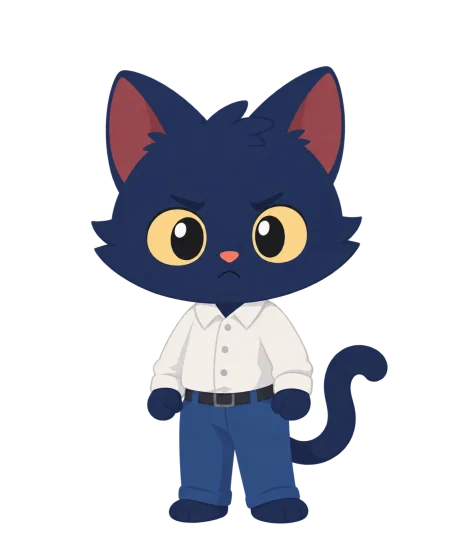
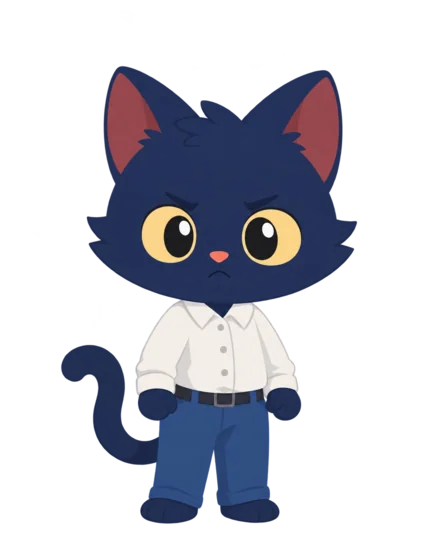
feat : COMMON-73 방향 검수 반영 · 물음표 컷 반대 방향본 · 탐구 컷 9장 · 내로 변호인 · 노트북 · 펠트 재생성본 교체

diff --git a/frontend/src/components/stage.js b/frontend/src/components/stage.js
@@ -43,6 +43,14 @@ export const imageOf = (who, look) => (look.startsWith('role:') ? `${IMAGES}role
     : look.startsWith('cheek:') ? `${IMAGES}cheek/${who}_${look.slice(6)}.webp` // 볼따구(기다림)
     : look.startsWith('deform:') ? `${IMAGES}deform/${who}_${look.slice(7)}.webp` // 데포르메(란마 등, 시트에서 잘라 public에 둔다)
     : `${IMAGES}scene/${who}_${look}.webp`);
+// 좌우를 따로 그린 모습(COMMON-73): 물음표처럼 글자가 들어 있어 CSS로 뒤집으면 글자도 거울 글씨가 된다.
+// 이 모습은 뒤집는 대신 반대 방향으로 따로 그린 그림(`-mirror`, 물음표는 그대로)을 쓴다. 기본 그림은 규칙 방향(FACING)이다
+export const MIRRORED_LOOKS = new Set(['cheek:idle-thinking', 'cheek-slim:idle-thinking']);
+/** 서 있는 자리에서 쓸 그림과 CSS 뒤집기 여부. flip: flipFor 결과 */
+export function facedImage(who, look, flip) {
+  if (flip && MIRRORED_LOOKS.has(look)) return { src: imageOf(who, look).replace(/\.webp$/, '-mirror.webp'), flip: false };
+  return { src: imageOf(who, look), flip };
+}
 // 법정 자리는 역할 의상(look "role:…")이 정한다: 검사 · 판사 = 왼쪽(검사편, 가운데는 카드 · 판이 많이 떠서 판사도 왼쪽이 기본) · 변호인 = 오른쪽 변호인석.
 // 판사를 가운데에 세우려면 대본 spots로 준다.
 const SEAT = { prosecutor: 'left', judge: 'left', defense: 'right' };
@@ -508,9 +516,10 @@ export function renderStage({ script, order, cards = {}, inputCards = [], choice
   // 볼따구 등장 · 퇴장: 빠른 뿅(커졌다 자리 잡기 0.22초 · 작아지며 사라지기 0.16초)
   function popCameo(who) {
     cameo.getAnimations().forEach((animation) => animation.cancel());
-    cameo.src = imageOf(who, CAMEO_LOOK);
+    const face = facedImage(who, CAMEO_LOOK, flipFor(who, sideOf(who, cast))); // 볼따구도 가운데를 본다(물음표 컷은 반대 방향 그림)
+    cameo.src = face.src;
     cameo.className = `cameo cameo-${who} at-${sideOf(who, cast)}`; // 높이는 캐릭터 그림, 가로 자리는 묶음 쪽(FE-128)
-    cameo.dataset.flip = flipFor(who, sideOf(who, cast)) ? '1' : ''; // 볼따구도 가운데를 본다
+    cameo.dataset.flip = face.flip ? '1' : '';
     cameo.hidden = false;
     if (!reducedMotion()) cameo.animate([{ scale: '0' }, { scale: '1.12', offset: .7 }, { scale: '1' }], { duration: 220, easing: 'cubic-bezier(.2, .8, .2, 1)' }); // 0 크기에서 뿅
   }
@@ -683,7 +692,6 @@ export function renderStage({ script, order, cards = {}, inputCards = [], choice
     ['naero', 'nambul'].forEach((who) => {
       const look = step.look[who];
       sprites[who].hidden = false;
-      sprites[who].src = imageOf(who, look);
       figures[who].classList.toggle('role', look.startsWith('role:'));
       figures[who].classList.toggle('dim', Boolean(step.say) && step.say !== who);
       figures[who].classList.toggle('near', onSheet && step.say === who); // 지면에서는 말하는 쪽이 기사에 다가선다
@@ -697,7 +705,9 @@ export function renderStage({ script, order, cards = {}, inputCards = [], choice
       if (at?.row) figures[who].dataset.row = at.row; else delete figures[who].dataset.row;
       const place = placeFor(who, look, spot, cast);
       figures[who].dataset.seat = place.seat; // 묶음 자리(FE-128). 피고인석(stand) · 슬롯은 위 spot · slot이 덮는다
-      figures[who].dataset.flip = place.flip ? '1' : ''; // 가운데를 보게
+      const face = facedImage(who, look, place.flip); // 가운데를 보게(물음표 컷은 CSS로 뒤집지 않고 반대 방향 그림을 쓴다)
+      sprites[who].src = face.src;
+      figures[who].dataset.flip = face.flip ? '1' : '';
       chips[who].textContent = step.chips[who];
       chips[who].dataset.role = ROLE_COLOR[step.chips[who]] ?? 'actor';
       chips[who].hidden = !step.chips[who];

diff --git a/frontend/src/utils/profileDeco.test.js b/frontend/src/utils/profileDeco.test.js
@@ -18,14 +18,14 @@ const openAfter = (stats) => unlockedSets(mockUnlocked(mockAchievements(stats)))
 const DEFAULT_LOOK = { portrait: NAERO, frame: 'basic', background: 'cream', sashStyle: 'none', sashColorShort: 'wine', sashColorLong: 'wine', sashIconLeft: 'none', sashIconRight: 'none' };
 const DEFAULT_SERVER = { ...DEFAULT_LOOK, bookmarkCharacter: 'naero', bookmarkFace: 'happy', bookmarkFaceStyle: 'generated', bookmarkColor: 'bronze' };
 
-test('후보는 158장이고 종류별 개수가 정한 대로이며, 모두 실제 파일이다', () => {
+test('후보는 161장이고 종류별 개수가 정한 대로이며, 모두 실제 파일이다', () => {
   const counts = {};
   PORTRAIT_POOL.forEach((src) => { counts[kindOfPortrait(src)] = (counts[kindOfPortrait(src)] ?? 0) + 1; });
   assert.deepEqual(counts, {
     'characters/roles': 20, 'characters/scene': 16, 'characters/icon/generated': 12, 'characters/mascot': 12, 'characters/law': 9, 'characters/adult': 9,
-    'characters/standing': 8, 'characters/cheek': 12, 'characters/cheek-slim': 4, 'characters/personality': 32, cases: 24,
+    'characters/standing': 8, 'characters/cheek': 12, 'characters/cheek-slim': 4, 'characters/personality': 32, cases: 27,
   });
-  assert.equal(new Set(PORTRAIT_POOL).size, 158);
+  assert.equal(new Set(PORTRAIT_POOL).size, 161);
   PORTRAIT_POOL.forEach((src) => assert.ok(existsSync(new URL(`../../public${src}`, import.meta.url)), `없는 파일: ${src}`));
   assert.ok(!PORTRAIT_POOL.some((src) => /cases\/case-\d+\.webp$/.test(src)), '사건 대표 썸네일은 후보가 아니다');
 });

diff --git a/frontend/src/pages/landing/landing.css b/frontend/src/pages/landing/landing.css
@@ -244,9 +244,9 @@
 /* B안 노트북(FE-150): 본체 · 키 · 트랙패드 · 베젤은 그림이 맡고, 화면 면 위에만 말풍선(HTML)을 올린다. 그림의 오른쪽 · 위 가장자리를 상자(410 × 410)에 맞춰 돌릴 때 기준점이 예전과 같다 */
 .landing-page .laptop-art {
   position: absolute; left: 77px; top: -38px; width: 410px; height: 410px; transform: rotate(calc(-29deg - var(--t, 0) * 10deg)); transform-origin: 100% 100%; /* 여유가 있으면 더 기운다 */
-  background: url('/images/desk/laptop.webp') 2px -11px / 432px 432px no-repeat;
+  background: url('/images/desk/laptop.webp') 0 0 / 410px 410px no-repeat; /* 11/03 재생성본(COMMON-73): 그림이 캔버스를 거의 꽉 채워 상자(410 × 410)에 그대로 맞춘다 */
 }
-.landing-page .laptop-screen { position: absolute; left: 38px; top: 16px; width: 359px; height: 168px; padding: 0; }
+.landing-page .laptop-screen { position: absolute; left: 43px; top: 35px; width: 323px; height: 158px; padding: 0; } /* 그림의 화면 면(1254 기준 x 132 ~ 1121, y 108 ~ 592)을 410px로 줄인 자리 */
 .landing-page .laptop-display {
   display: flex; flex-direction: column; gap: 9px; height: 100%; overflow: hidden; padding: 12px 14px; border-radius: 4px;
   font-size: 12px; line-height: 1.35; color: var(--color-text); word-break: keep-all;

diff --git a/frontend/src/utils/newspaper.js b/frontend/src/utils/newspaper.js
@@ -23,8 +23,8 @@ const COMMON_CATEGORIES = ['property', 'body', 'life', 'robbery', 'theft'];
 // 분류를 끝내 모를 때(seed로 순환)는 범죄 분류 3종만 돌린다. 강도 · 절도는 분류가 정해진 사건에만 쓴다
 const FALLBACK_CATEGORIES = ['property', 'body', 'life'];
 const COMMON_ROLES = ['reenact', 'origin', 'conclusion'];
-// 탐구 · 대화 컷 6장(COMMON-69): 사건과 상관없는 차분한 장면이라 신문 여백 사진 칸에 섞어 쓴다. 원본 character/cuts/inquiry/inquiry_cut_{장면}.png
-const INQUIRY_SCENES = ['reading', 'magnifier', 'talk', 'walk', 'window', 'board'];
+// 탐구 · 대화 컷 9장(COMMON-69 6장 + COMMON-73 옛 공용 재연 컷 3장): 사건과 상관없는 차분한 장면이라 신문 여백 사진 칸에 섞어 쓴다. 원본 character/cuts/inquiry/inquiry_cut_{장면}.png
+const INQUIRY_SCENES = ['reading', 'magnifier', 'talk', 'walk', 'window', 'board', 'reporter', 'clue', 'sign'];
 export const inquiryPhotos = INQUIRY_SCENES.map((scene) => `/images/cases/inquiry-${scene}.webp`);
 export const inquiryPhotoAt = (seed = 0) => inquiryPhotos[Math.abs(Number(seed) || 0) % inquiryPhotos.length];
 

diff --git a/frontend/src/mocks/authMockApi.js b/frontend/src/mocks/authMockApi.js
@@ -58,7 +58,7 @@ export async function putNickname(nickname) {
 // 목업 일러스트 총 개수 (BE-142, 서버 I-1). 서버 응답과 같은 모양이고, 값은 지금 이미지 폴더 기준의 예시다
 export async function getIllustrationSummary() {
   await delay();
-  return { total: 240, byKind: { cases: 88, 'characters/adult': 9, 'characters/cheek': 12, 'characters/cheek-slim': 4, 'characters/icon/cropped': 18, 'characters/icon/generated': 12, 'characters/law': 9, 'characters/mascot': 12, 'characters/personality': 32, 'characters/roles': 20, 'characters/scene': 16, 'characters/standing': 8 } };
+  return { total: 242, byKind: { cases: 90, 'characters/adult': 9, 'characters/cheek': 12, 'characters/cheek-slim': 4, 'characters/icon/cropped': 18, 'characters/icon/generated': 12, 'characters/law': 9, 'characters/mascot': 12, 'characters/personality': 32, 'characters/roles': 20, 'characters/scene': 16, 'characters/standing': 8 } };
 }
 
 // 목업 첫 로그인 가져오기 (FE-138, 서버 M-9 ~ M-11). 안내 창을 확인하려고 늘 후보가 있는 것으로 보이고, 가져오기 · 초기화를 고르면 이번 방문 동안은 없다

diff --git a/frontend/src/content/portraitPool.js b/frontend/src/content/portraitPool.js
@@ -154,8 +154,11 @@ export const PORTRAIT_POOL = [
   '/images/cases/common-theft-origin.webp',
   '/images/cases/common-theft-reenact.webp',
   '/images/cases/inquiry-board.webp',
+  '/images/cases/inquiry-clue.webp',
   '/images/cases/inquiry-magnifier.webp',
   '/images/cases/inquiry-reading.webp',
+  '/images/cases/inquiry-reporter.webp',
+  '/images/cases/inquiry-sign.webp',
   '/images/cases/inquiry-talk.webp',
   '/images/cases/inquiry-walk.webp',
   '/images/cases/inquiry-window.webp',

diff --git a/backend/src/test/java/com/team2/project/illustration/IllustrationCatalogTest.java b/backend/src/test/java/com/team2/project/illustration/IllustrationCatalogTest.java
@@ -48,6 +48,7 @@ class IllustrationCatalogTest {
 		List<String> onDisk = Stream.of("cases", "characters")
 				.flatMap(folder -> walk(IMAGES.resolve(folder)))
 				.map(path -> IMAGES.relativize(path).toString().replace('\\', '/'))
+				.filter(path -> !path.endsWith("-mirror.webp"))	// 좌우를 따로 그린 반대 방향 그림은 같은 그림이라 세지 않는다(COMMON-73)
 				.sorted()
 				.toList();
 

diff --git a/docs/character/character-image-prompts.md b/docs/character/character-image-prompts.md
@@ -20,6 +20,7 @@
 | v3.1 | 2026-10-29 | **사건 재연 컷은 배경 포함이 기본**(10/29 결정) — 투명 컷 + 배경 합성은 63장을 합성해 보니 어색한 컷이 많아 폐기. 1-3 · 9-7 `BG` · `reenact` · `PROPS RULES` · 9-17 수정. 캐릭터 컷 · 시트 · 아이콘은 그대로 투명 |
 | v3.2 | 2026-10-30 | **바라보는 방향 규칙**(FE-128): 내로 단일 이미지는 오른쪽, 남불은 왼쪽을 본다(1-2 · 7-2). 무대는 서 있는 곳에서 가운데를 보도록 좌우를 뒤집는다 |
 | v3.3 | 2026-11-02 | **사건 재연 컷 재생성 교훈 반영**(COMMON-69) — 배경 이미지를 첨부하지 않고 사건 내용에 맞춘 장소 설명을 `BG-scene`에 직접 적는다(공용 배경 B01 ~ B16 폐기). 탐구 · 대화 컷(B5)과 공용 컷(B6, 강도 · 절도 신규)도 배경 포함. 7-1에 "시트에 의상이 여러 칸이면 어느 칸을 입힐지 명시" 행 추가 |
+| v3.4 | 2026-11-03 | **10-11 내로 변호인 역할 컷 재생성 프롬프트**(COMMON-73) — 다른 역할 컷보다 작게 나온 것(캔버스 2:3 · 키가 높이의 약 59%, 다른 역할 컷은 4:5 · 약 91%)을 같은 크기로 다시 뽑는다. 크기 기준 컷을 첨부하고 키 비율을 숫자로 적는다. 7-1에 "한 장만 작게 나옴" 행 추가 |
 
 > 기준 결정: `character-main-handover.md` v2의 10/13 변경 절 (기본 = 마스코트형 약 3.5등신 · 란마풍 등은 변형 · 모든 캐릭터 무성 · 소품 제한 해제 · 화난 표정 금지)
 > 이 문서는 **복사해서 바로 쓰는 프롬프트 모음**이다. 설계 배경은 `character-law-ai-judge-plan.md` v0.3을 본다(`Claude outputs/character/plan/`, 커밋 안 함).
@@ -716,6 +717,7 @@ DEFORMATION — Japanese-made Western-cartoon-inspired deformation (graphic and 
 | 역할 의상 시트에서 엉뚱한 의상(검사 법복 등)으로 그려짐 | 시트에 판사 · 검사 · 변호인 · 사건 역할 네 칸이 있는데 프롬프트가 어느 칸인지 말하지 않음 | 첨부 설명에 네 칸을 풀어 쓰고 "맨 오른쪽 칸만 입히고 나머지는 쓰지 말 것"을 명시, AVOID에 법복 · 가발 · 정장 추가 |
 | 책상 · 카운터의 다리 · 의자가 빠짐(사건 재연 컷) | 가구 아래쪽을 생략함 | 9-7 `PROPS RULES`: 상판과 다리, 앉는 자리의 의자를 함께 그림 |
 | 의자 · 스툴 같은 복잡한 사물의 모양이 이상함(사건 재연 컷) | 구조가 복잡한 사물을 모델이 자주 틀림 | 9-7 `PROPS RULES`: 단순한 형태로 쓰고 **형태를 다시 확인(double-check)하게 명시** |
+| 같은 묶음(역할 컷 등) 중 한 장만 캐릭터가 작게 나옴 | 비율(4:5)을 말하지 않거나 여백 비율만 적어 모델이 캔버스 · 여백을 제멋대로 정함(내로 변호인: 2:3 캔버스에 키가 높이의 약 59%) | 같은 묶음의 잘 나온 컷을 **크기 기준으로 첨부**하고, 캔버스 비율과 "키가 이미지 높이의 약 90%"를 숫자로 적는다(10-11). 뽑은 뒤 알파 영역 높이를 다른 컷과 비교한다 |
 
 ### 7-2. 검수
 
@@ -1671,3 +1673,37 @@ AVOID: text, letters, numbers, logos, watermarks, labels, speech bubbles, violen
 ```
 
 남불 `nambul_cut-role-case-1_idle-neutral.png`은 이름 · 첨부, OUTFIT 줄(`OUTFIT — a worn, stretched grey hoodie, loose track pants and house slippers.`), AVOID 끝(9-8 남불)을 바꾼다.
+
+### 10-11. 내로 변호인 역할 컷 재생성 (COMMON-73)
+
+대표: `naero_cut-role-defense_idle-neutral.png` · 첨부 `standing/naero_standing.png` · `sheets/role-outfits/naero_sheet_role-outfits.png` · **크기 기준** `cuts/naero/base/role/naero_cut-role-prosecutor_idle-neutral.png`
+
+지금 컷은 다른 역할 컷보다 작다: 캔버스 1024 × 1536(2:3)에 캐릭터 키가 902px(높이의 약 59%)이다. 같은 묶음의 검사 · 판사 컷은 1122 × 1402(4:5)에 키 1266 ~ 1278px(약 91%)이다. 화면은 역할 컷을 같은 높이로 줄여 쓰므로(`roles/*.webp` 높이 560) 이 차이가 그대로 "작은 변호인"으로 보인다. 옷을 입은 역할 컷 중 이 한 장만 짧다. 의상 · 자세는 10-9와 같고, **크기 기준 컷 첨부와 키 비율 숫자**를 더했다. 셔츠 칼라가 투명하게 비던 문제(FE-128)도 처음부터 채우도록 적었다.
+
+```
+ATTACHMENTS — naero_standing.png is the exact model of Naero; naero_sheet_role-outfits.png is the exact model of the defense lawyer outfit: copy that outfit exactly as drawn in the sheet. naero_cut-role-prosecutor_idle-neutral.png is the SIZE REFERENCE: draw the new image at exactly the same canvas size, the same character scale and the same position as that image (only the outfit is different). Draw ONE full-body cut.
+
+ART STYLE — clean, warm 2D flat mascot illustration:
+- No black outlines and no line art; shapes are separated only by flat color areas.
+- Facial features (if any) are filled shapes, not strokes.
+- One soft shadow tone per surface on the lower-right side; at most a very subtle gradient on large areas.
+- Warm light from the upper left. Matte finish. No cast shadow, no ground shadow, no drop shadow, no glow.
+- Mood: friendly, cheerful, slightly vintage.
+
+OUTFIT — the defense lawyer outfit from the role-outfit sheet. The shirt collar on both sides of the tie is fully filled with the shirt color (no transparent or missing area inside the collar). No bandana.
+
+POSE — standing calmly, slight three-quarter view with the body and face turned toward the viewer's right, both hands relaxed at the sides, a small calm smile, looking at the viewer. Exactly the same pose and expression as the prosecutor size reference.
+
+SCENE — a single character, centered horizontally. The full body from the tips of the ears to the feet is visible and fills about 90% of the image height: about 5% empty space above the ears and about 3% below the feet. Same scale as the size reference: the character must not look smaller than the prosecutor.
+
+BACKGROUND — fully transparent background (PNG with alpha). No background color, no floor, no ground line, no shadow, no frame, no border. Aspect ratio 4:5 vertical (same canvas as the size reference, e.g. 1122 × 1402).
+
+AVOID: text, letters, numbers, logos, watermarks, labels, speech bubbles, angry or hostile faces or poses, sexualized or revealing depiction, gendered body features, cropped limbs, black outlines, line art, drop shadows, ground shadows, background colors or scenery, 3D render, CGI, photo realism, extra characters, name tags, props in the hands, a bandana, a different fur color, a human face, whisker lines, a transparent hole in the shirt collar, a small character with large empty space, a 2:3 tall canvas.
+```
+
+| 검수 | 기준 |
+| --- | --- |
+| 크기 | 알파 영역 높이가 캔버스 높이의 약 88 ~ 92%(검사 컷 1266 / 1402 ≈ 90%). 캔버스가 4:5인지 |
+| 방향 | 몸 · 얼굴이 오른쪽을 본다(내로 규칙, v3.2) |
+| 칼라 | 넥타이 양옆 셔츠 칼라에 투명한 곳이 없다 |
+

diff --git a/docs/decisions/COMMON-73.md b/docs/decisions/COMMON-73.md
@@ -1,0 +1,28 @@
+# COMMON-73 의사결정 기록
+
+## 문제 / 배경
+- COMMON-69 이미지의 좌우 방향을 검수했다. 화면은 "내로는 오른쪽, 남불은 왼쪽을 본다"를 전제로, 서 있는 곳에서 가운데를 보게 그림을 CSS로 뒤집는다(FE-128 `flipFor`). 전제와 반대로 그려진 컷(내로 피고인 감정 컷 등)은 사용자가 로컬 작업 폴더에서 바로잡았고, 이를 이미지 레포 · 본 레포에 옮겨야 했다.
+- 물음표가 그려진 볼따구 컷 4장(볼따구 · 볼따구 슬림 `idle-thinking` × 내로 · 남불)은 뒤집으면 **물음표가 거울 글씨**가 된다. 4장 모두 오른쪽을 보고 있어 남불은 규칙 방향과도 반대였다.
+
+## 검토한 대안
+- 대안 A — 이 컷들은 뒤집지 않는다(반전 금지 목록): 물음표는 바르게 보이지만 자리에 따라 캐릭터가 바깥을 본다. 남불은 늘 규칙과 반대 방향이 된다.
+- 대안 B — 반대 방향 그림을 따로 둔다(`-mirror`): 물음표만 떼어 몸을 뒤집고 물음표는 그대로 다시 붙인다. 화면은 뒤집어야 하는 자리에서 CSS 대신 이 그림을 쓴다. 파일이 늘고 고를 규칙이 필요하다.
+- 대안 C — 반대 방향을 새로 생성: 같은 표정 · 같은 몸을 다시 얻기 어렵고 시간이 든다.
+
+## 선택한 방법과 이유
+- **대안 B**(사용자 결정: "물음표만 떼고 좌우 반전해서 다시 붙여"). 물음표는 몸과 떨어진 연결 영역 두 개(갈고리 · 점)라 알파 연결 영역으로 정확히 떼어진다. 결과는 연결 영역이 그대로 3개(몸 · 갈고리 · 점)여서 떼어 낸 찌꺼기가 없다.
+- **기본 이름 = 규칙 방향, `-mirror` = 반대 방향.** 내로는 원본(오른쪽)이 기본이고 새 왼쪽본이 `-mirror`다. 남불은 새 왼쪽본이 기본이 되고 원래 오른쪽본을 `-mirror`로 바꿨다(원본을 지우지 않는다). 이렇게 하면 다른 컷과 같은 규칙(`flipFor`)을 그대로 쓰고, 뒤집어야 할 때만 그림을 바꾼다.
+- 화면: `stage.js`의 `MIRRORED_LOOKS`(물음표 모습 목록) · `facedImage(who, look, flip)`가 뒤집어야 하는 자리에서 `-mirror.webp`를 고르고 CSS 반전을 끈다. 무대 캐릭터(`spr`) · 볼따구 해설(`cameo`) 두 곳에 건다. 다른 모습은 지금처럼 CSS로 뒤집는다.
+- **`-mirror`는 일러스트 개수에서 뺀다.** 같은 그림의 방향만 다른 것이라 수집 · 대표 이미지 후보로 세면 안 된다. `update-manifest.sh`와 `IllustrationCatalogTest`가 같은 규칙(`*-mirror.webp` 제외)을 쓴다.
+- 탐구 컷: 대체되어 `discard`에 있던 옛 공용 재연 컷 3장(`headline` · `sub-1` · `detail-1`)을 `cuts/inquiry`로 옮겨 `reporter` · `clue` · `sign`으로 이름을 붙였다(사용자 결정). 신문 여백 사진 목록(`newspaper.js`)과 대표 이미지 후보(`portraitPool.js`)에 더했다.
+- webp 변환은 이미지 보관 규칙(6장)의 크기 · 품질 85를 따랐다. 역할 컷은 기존 파일과 같은 방식(표정 컷은 캔버스 그대로, 옛 컷은 여백을 잘라 높이 560)으로 맞췄다.
+
+## 고려한 제약 사항
+- 로컬 작업 폴더가 기준이다(사용자: "로컬 파일은 전부 정답"). 방향과 무관하게 바뀐 파일이 섞여 있어도 그대로 옮겼다.
+- 다만 **지우는 일은 하지 않았다.** 로컬에 없고 이미지 레포에만 있는 사건 1 재연 컷(`reenact/case-1` 2장 · `_original` 4장)과, 로컬에만 있는 합성 작업 폴더(`reenact/composite` · `composite-noshadow`)는 반영하지 않았다(사건 1은 비공개 전환 예정, 합성본은 10/29에 폐기한 방식).
+- 목 일러스트 총 개수(`authMockApi.js`)가 원래부터 실제 폴더와 1장 어긋나 있어 실제 기준(242장 · 사건 90장)으로 맞췄다.
+
+## 추후 재검토가 필요하면
+- 글자 · 기호가 든 컷이 더 생기면 `MIRRORED_LOOKS`에 모습을 더하고 `-mirror` 그림을 만든다(파일이 빠지면 `stage.test.js`가 실패한다).
+- (11/03 반영 완료) 내로 변호인 역할 컷 · 노트북 · 데스크 펠트는 프롬프트(가이드 10-11 · B안 27-1 · 27-2)로 다시 뽑았다. 노트북은 화면 면에 생긴 흐릿한 얼룩을 화면 면만 균일하게 다시 칠해 고쳤다. 새 노트북은 그림이 캔버스를 거의 꽉 채워(이전 여백 약 6%) 화면 위치 CSS(`.laptop-art` 배경 크기 · `.laptop-screen`)를 다시 맞췄다. 변호인은 알파 영역 기준으로 잘라 판사 · 검사와 같은 크기(290 × 560)가 됐다.
+- 이미지 레포의 사건 1 재연 컷(`reenact/case-1` 2장 · `_original` 4장)은 사용자 의도대로 삭제했다(비공개 전환 예정).

diff --git a/DESIGN.md b/DESIGN.md
@@ -323,7 +323,7 @@ components:
 | 무대 안 법정 · 판 · 보드 | 비율: 무대 %(예: 보드 좌우 24% · 위 5% · 아래 27%, 대본 카드 좌우 28% · 높이 38%) | 절대: 무대 % 좌표 |
 | 무대 안 글자 · 테두리 | 자체 단위: `cqw`, 글자는 `max(최소 px, N cqw)`로 하한을 둠(예: `max(13px, 1.5cqw)`). 읽는 글자의 하한은 12px 이상이다(FE-103: 11px · 10px 하한을 12px로 올림) | – |
 | 캐릭터 | 비율: 무대 높이의 62%(판이 뜨면 50%), 4막 판사 셋은 칸 20% · 키 비율 100 / 94.4 / 88.9% | 절대: 가운데 기준 `--l` 16% · `--r` 84%(판이 뜨면 10% · 90%), 바닥 25% |
-| 캐릭터 자리 · 꼬리 (FE-128) | 자리는 **묶음 기준**: 대본 `cast`(묶음 A 판사 · 검사 = `prosecutor`, 묶음 B 변호인 · 피고인 = `defense`)에서 A는 `--l`, B는 `--r`. 역할 의상(검사 · 판사 · 변호인)이면 의상 자리, 피고인 역 · 평상복 · 볼따구는 그 캐릭터의 묶음 쪽(`data-seat`). 말풍선 꼬리 · 이름 딱지 · 지면 다가서기 · 남불 엽서 건네기 방향도 캐릭터 이름이 아니라 서 있는 쪽(`data-side` · `data-seat`). 볼따구 가로 자리는 A 40% · B 62%, 높이는 캐릭터 그림마다. **바라보는 방향**: 원본 그림은 내로가 오른쪽 · 남불이 왼쪽을 본다(이미지 규칙). 서 있는 곳에서 가운데를 보도록 그림만 좌우로 뒤집는다(`data-flip`, `flipFor`) — 왼쪽에 서면 오른쪽을, 오른쪽에 서면 왼쪽을 보고, 가운데(피고인석 stand · 슬롯 30)는 원본 방향. 판사 · 볼따구 포함, 이름 딱지는 뒤집지 않는다. `cast`가 없으면 기본 배역(내로 A · 남불 B) | 절대: 무대 % 좌표 |
+| 캐릭터 자리 · 꼬리 (FE-128) | 자리는 **묶음 기준**: 대본 `cast`(묶음 A 판사 · 검사 = `prosecutor`, 묶음 B 변호인 · 피고인 = `defense`)에서 A는 `--l`, B는 `--r`. 역할 의상(검사 · 판사 · 변호인)이면 의상 자리, 피고인 역 · 평상복 · 볼따구는 그 캐릭터의 묶음 쪽(`data-seat`). 말풍선 꼬리 · 이름 딱지 · 지면 다가서기 · 남불 엽서 건네기 방향도 캐릭터 이름이 아니라 서 있는 쪽(`data-side` · `data-seat`). 볼따구 가로 자리는 A 40% · B 62%, 높이는 캐릭터 그림마다. **바라보는 방향**: 원본 그림은 내로가 오른쪽 · 남불이 왼쪽을 본다(이미지 규칙). 서 있는 곳에서 가운데를 보도록 그림만 좌우로 뒤집는다(`data-flip`, `flipFor`) — 왼쪽에 서면 오른쪽을, 오른쪽에 서면 왼쪽을 보고, 가운데(피고인석 stand · 슬롯 30)는 원본 방향. 판사 · 볼따구 포함, 이름 딱지는 뒤집지 않는다. **물음표가 든 볼따구 컷**(`cheek:idle-thinking` · `cheek-slim:idle-thinking`, COMMON-73)은 CSS로 뒤집으면 물음표가 거울 글씨가 되므로 뒤집지 않고 반대 방향으로 따로 그린 그림(`*-mirror.webp`, `facedImage` · `MIRRORED_LOOKS`)을 쓴다. `cast`가 없으면 기본 배역(내로 A · 남불 B) | 절대: 무대 % 좌표 |
 | 6막 1면 법정 사진 (FE-141) | 5막 마지막 법정 그대로: 대본 배역(`script.cast`)의 묶음 A가 판사로 왼쪽(`.sheet-photo-a`, 16% · 모바일 25%), 묶음 B가 피고인 역으로 오른쪽(`.sheet-photo-b`, 84% · 모바일 75%). 무대처럼 가운데를 보게 뒤집는다(`img[data-flip]`, `courtPhotoCast`). 예전에는 "판사 = 내로 · 피고인 = 남불"로 고정이라 배역이 바뀐 사건에서 5막과 달랐다. 내 결과 지면(FE-75)은 대본이 없어 기본 배역(서버 대본 연동 FE-139 뒤 배역을 넘긴다) | 절대: 사진 안 % 좌표 |
 | 1막 신문 지면 무대(layout `paper`) | 지면은 S-02와 같음 | 대사창 · 조작 줄 · 캐릭터는 화면 고정(아래). 대사창 폭 `--dock-w` = `min(860px, 100vw − 340px)`(양옆 캐릭터 자리 170px씩), 680px 이하 `100vw − 20px` |
 | 1막 독자 엽서 팝업 | px 상한 + 화면 비율 | 화면 고정: 가운데(46%) |
